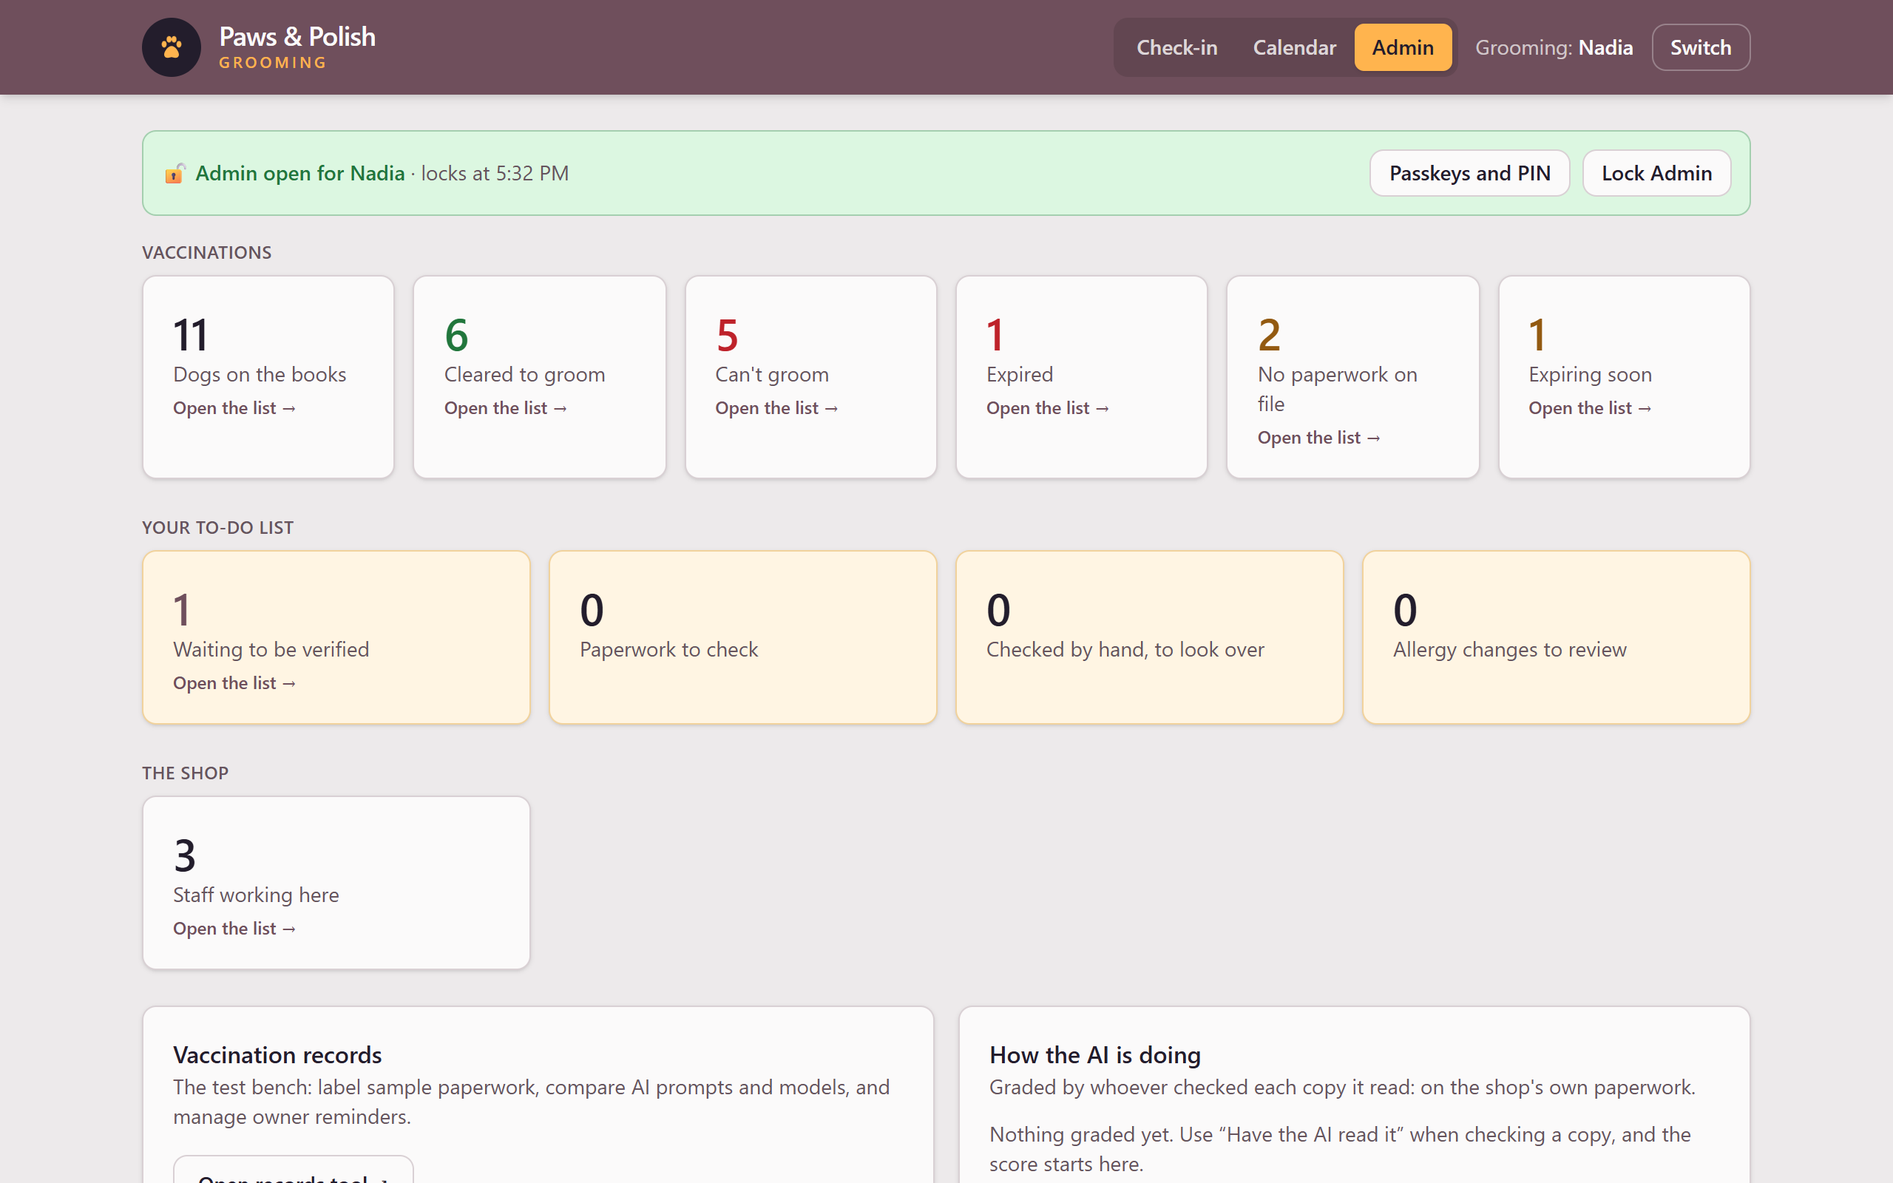
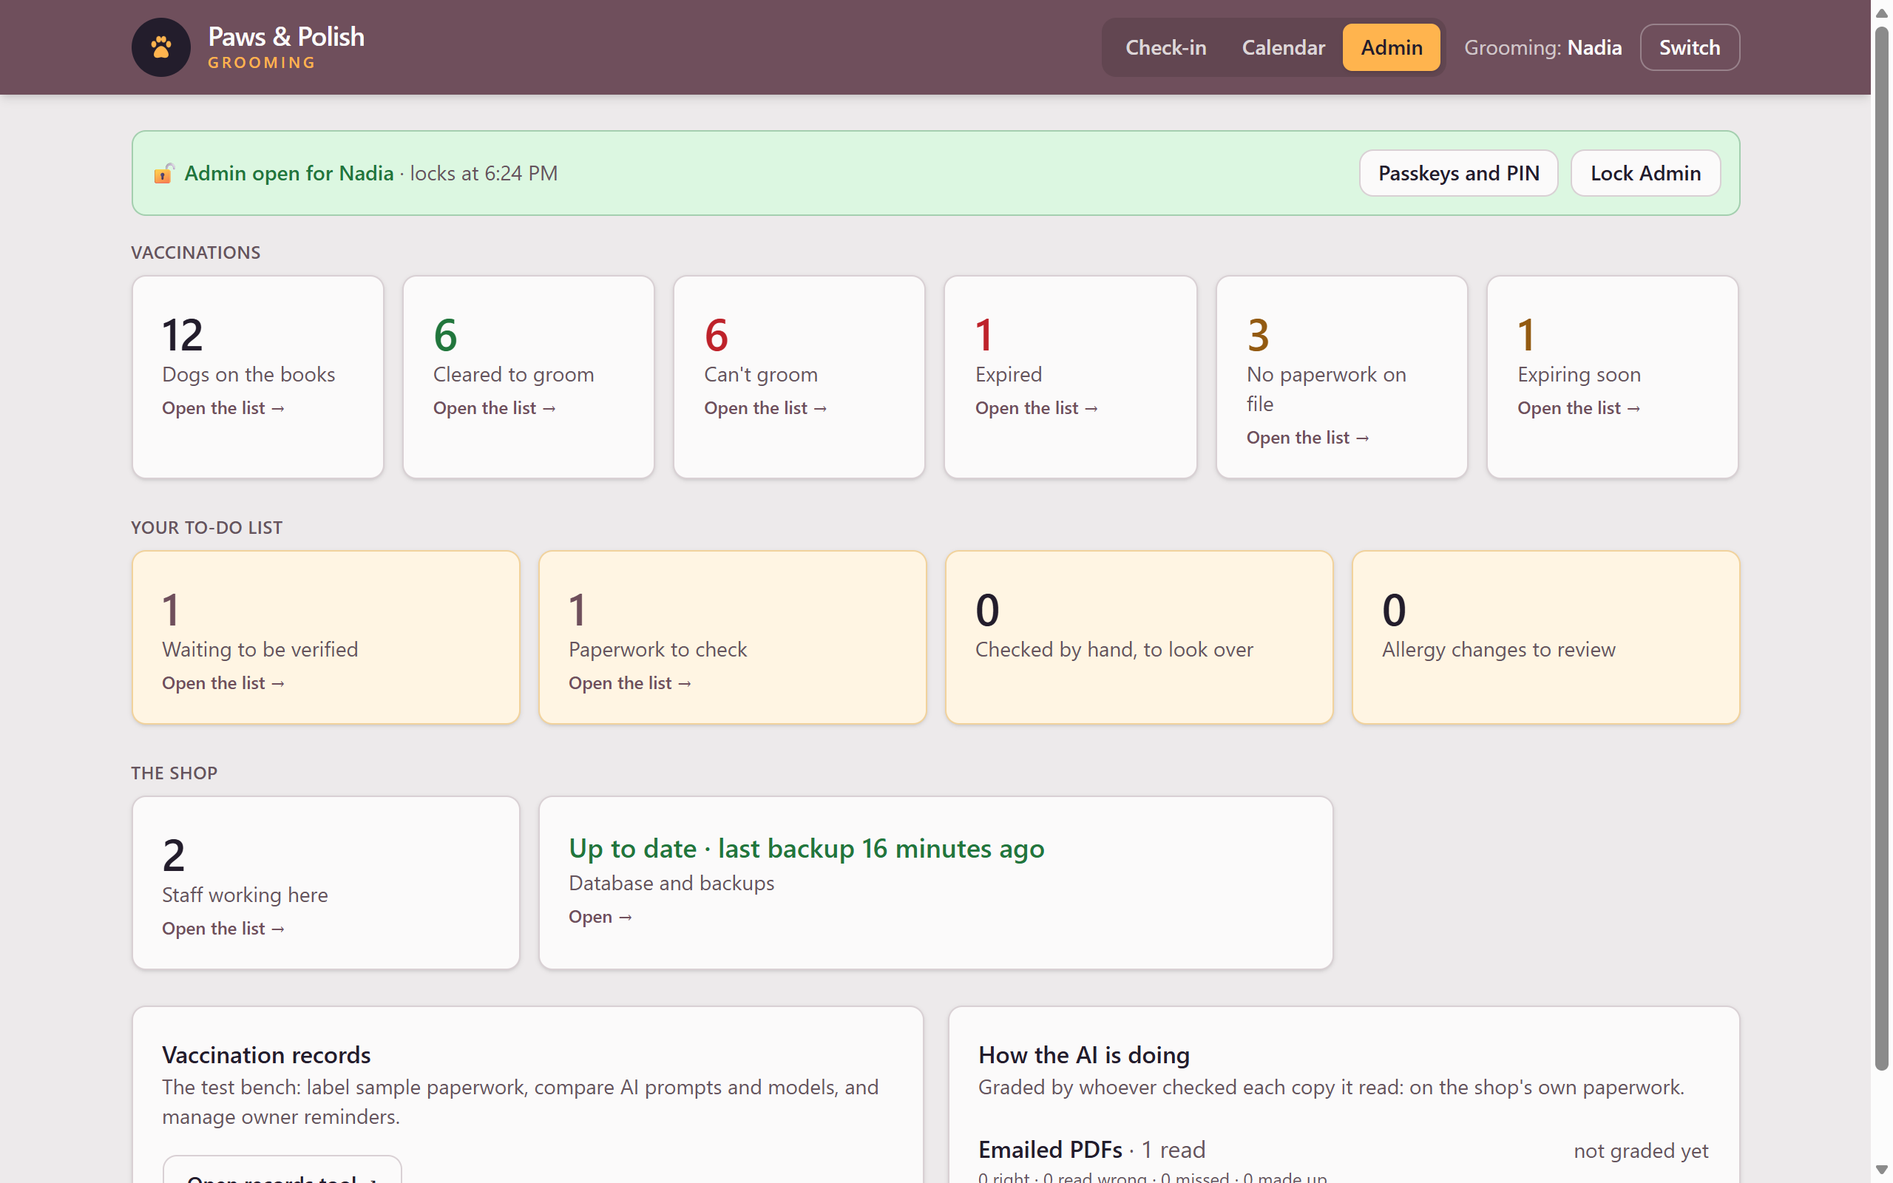
Admin: Database and backups, to see updates and backups at a glance
A new card under The shop says in words whether the shop's database is up
to date and how old the newest backup is: green when all is well, amber
when sections wait for a restart or there is no backup, red when the last
update failed. Behind it: the last start's update, every section the
database holds and how it got there (built, already there, added by an
update), any waiting for a restart, and every backup with when, why
(from Admin by whom, before an update, before a restore, by hand), size
and contents. Back up now takes one from Admin, named for the manager;
restoring stays in the records tool.

SOP MGR-11, with its screenshots; SYS-09 points to the screen.

diff --git a/web/components/check-in/system-status.tsx b/web/components/check-in/system-status.tsx
@@ -1,0 +1,179 @@
+"use client";
+
+import { useEffect, useState } from "react";
+import { Badge } from "@/components/ui/badge";
+import { Button } from "@/components/ui/button";
+import { Card, CardContent, CardHeader, CardTitle } from "@/components/ui/card";
+import { api, type SystemStatus } from "@/lib/api";
+import { cn } from "@/lib/utils";
+
+const HOW = { built: "When it was built", baseline: "Already there", update: "Added by an update" } as const;
+
+/** "Oct 16, 2026, 9:38 PM", in the shop's own time. */
+function when(iso: string | null): string {
+  if (!iso) return "—";
+  return new Date(iso).toLocaleString("en-US", { month: "short", day: "numeric", year: "numeric",
+                                                  hour: "numeric", minute: "2-digit" });
+}
+
+/** "2 hours ago", for how old the newest backup is. */
+function ago(iso: string | null): string {
+  if (!iso) return "";
+  const mins = Math.round((Date.now() - new Date(iso).getTime()) / 60000);
+  if (mins < 2) return "just now";
+  if (mins < 60) return `${mins} minutes ago`;
+  const hours = Math.round(mins / 60);
+  if (hours < 48) return `${hours} ${hours === 1 ? "hour" : "hours"} ago`;
+  return `${Math.round(hours / 24)} days ago`;
+}
+
+function megabytes(bytes: number): string {
+  return bytes < 1024 * 1024 ? `${Math.max(1, Math.round(bytes / 1024))} KB` : `${(bytes / 1024 / 1024).toFixed(1)} MB`;
+}
+
+/** What the card on the Admin overview says: the one thing to know first. */
+export function systemHeadline(s: SystemStatus | null): { text: string; tone: "ok" | "warn" | "stop" } {
+  if (!s) return { text: "Checking…", tone: "warn" };
+  if (!s.update.ok) return { text: "The last update failed", tone: "stop" };
+  if (s.waiting.length) return { text: "New sections wait for a restart", tone: "warn" };
+  if (!s.backups.length) return { text: "Up to date · no backups yet", tone: "warn" };
+  return { text: `Up to date · last backup ${ago(s.backups[0].made_utc)}`, tone: "ok" };
+}
+
+/**
+ * Database and backups, from Admin: how the last start's update went, every
+ * section of the shop's rules the database holds, and every backup. A manager
+ * can take a backup here; restoring is done from the records tool (SOP
+ * SYS-08), since it replaces the shop's data.
+ */
+export function SystemScreen({ onChanged }: { onChanged?: () => void }) {
+  const [status, setStatus] = useState<SystemStatus | null>(null);
+  const [error, setError] = useState<string | null>(null);
+  const [busy, setBusy] = useState(false);
+  const [done, setDone] = useState<string | null>(null);
+  const [allSections, setAllSections] = useState(false);
+
+  const load = () => api.systemStatus().then(setStatus).catch((e) => setError(String(e.message ?? e)));
+  useEffect(() => { load(); }, []);
+
+  async function backUp() {
+    setBusy(true); setError(null); setDone(null);
+    try {
+      const b = await api.backUpNow();
+      setDone(`Backup saved: ${b.name} (${megabytes(b.bytes)}).`);
+      load(); onChanged?.();
+    } catch (e) {
+      setError(String((e as Error).message ?? e));
+    } finally {
+      setBusy(false);
+    }
+  }
+
+  if (!status) {
+    return error
+      ? <p role="alert" className="rounded-[var(--radius)] border border-stop/30 bg-stop-soft p-3 text-sm text-stop">{error}</p>
+      : <p className="text-muted-foreground">Loading…</p>;
+  }
+
+  const { update } = status;
+  const added = status.sections.filter((s) => s.how === "update");
+  const shown = allSections ? status.sections : status.sections.slice(0, 8);
+
+  return (
+    <div className="flex flex-col gap-4">
+      {/* The update on the last start. */}
+      <Card className={cn(!update.ok && "border-stop/30 bg-stop-soft")}>
+        <CardHeader>
+          <CardTitle>The shop&apos;s database</CardTitle>
+          <p className="text-sm text-muted-foreground">
+            Each time the app starts, it adds any new sections of the shop&apos;s rules, after a backup.
+          </p>
+        </CardHeader>
+        <CardContent className="flex flex-col gap-3 text-sm">
+          {update.ok ? (
+            <p>
+              <Badge tone="ok">Up to date</Badge>{" "}
+              Holds all {status.section_files} sections. Last checked {when(update.checked_at)}
+              {update.applied.length > 0 && <>, when it added {update.applied.join(", ")}</>}.
+            </p>
+          ) : (
+            <div className="text-stop">
+              <p><Badge tone="stop">Update failed</Badge> {when(update.checked_at)}</p>
+              <p className="mt-1">
+                <span className="font-mono">{update.failed_file}</span> could not be added, so the update stopped
+                there. The database is as it was before that section.
+                {update.backup && <> A backup was taken first: <span className="font-mono">{update.backup}</span>.</>}
+              </p>
+              {update.message && <pre className="mt-2 whitespace-pre-wrap text-xs">{update.message}</pre>}
+            </div>
+          )}
+          {status.waiting.length > 0 && (
+            <p className="rounded-[var(--radius)] border border-warn/30 bg-warn-soft p-3 text-warn">
+              Waiting for the app to restart: {status.waiting.join(", ")}. They are added, after a backup, the
+              next time the app starts.
+            </p>
+          )}
+
+          <div>
+            <p className="mb-1 font-medium">
+              Sections in the database
+              {added.length > 0 && <span className="font-normal text-muted-foreground"> · {added.length} added by updates</span>}
+            </p>
+            <ul className="divide-y divide-border rounded-[var(--radius)] border border-border bg-card">
+              {shown.map((s) => (
+                <li key={s.file} className="flex flex-wrap items-center justify-between gap-2 px-3 py-2">
+                  <span className="font-mono text-xs">{s.file}</span>
+                  <span className="text-xs text-muted-foreground">
+                    {HOW[s.how]}{s.how === "update" && <> · {when(s.applied_at)}</>}
+                  </span>
+                </li>
+              ))}
+            </ul>
+            {status.sections.length > 8 && (
+              <Button variant="outline" size="sm" className="mt-2" onClick={() => setAllSections((a) => !a)}>
+                {allSections ? "Show fewer" : `Show all ${status.sections.length}`}
+              </Button>
+            )}
+          </div>
+        </CardContent>
+      </Card>
+
+      {/* The backups. */}
+      <Card>
+        <CardHeader>
+          <CardTitle>Backups · {status.backups.length}</CardTitle>
+          <p className="text-sm text-muted-foreground">
+            Each holds the shop&apos;s database and the copies of paperwork and dog photos, in the backups folder on
+            this computer. Keep a copy somewhere else too. Restoring one is done from the records tool.
+          </p>
+        </CardHeader>
+        <CardContent className="flex flex-col gap-3">
+          <div className="flex flex-wrap items-center gap-3">
+            <Button disabled={busy} onClick={backUp}>{busy ? "Backing up… this takes a minute" : "Back up now"}</Button>
+            {done && <p className="text-sm text-ok">{done}</p>}
+            {error && <p role="alert" className="text-sm text-stop">{error}</p>}
+          </div>
+          {status.backups.length === 0 ? (
+            <p className="text-sm text-muted-foreground">No backups yet.</p>
+          ) : (
+            <ul className="divide-y divide-border rounded-[var(--radius)] border border-border bg-card text-sm">
+              {status.backups.map((b) => (
+                <li key={b.name} className="flex flex-wrap items-start justify-between gap-2 px-3 py-2.5">
+                  <span className="min-w-0">
+                    <span className="block font-medium">{when(b.made_utc)}</span>
+                    <span className="block text-muted-foreground">
+                      {b.why} · {megabytes(b.bytes)}
+                      {b.readable ? ` · ${b.databases.length} databases, ${b.private_files ?? 0} files` : ""}
+                    </span>
+                    <span className="block font-mono text-xs text-muted-foreground">{b.name}</span>
+                  </span>
+                  {!b.readable && <Badge tone="stop">Can&apos;t be read</Badge>}
+                </li>
+              ))}
+            </ul>
+          )}
+        </CardContent>
+      </Card>
+    </div>
+  );
+}

diff --git a/web/components/check-in/admin-view.tsx b/web/components/check-in/admin-view.tsx
@@ -7,9 +7,10 @@ import { Button } from "@/components/ui/button";
 import { CopyPages, PaperworkIntake } from "@/components/check-in/paperwork-intake";
 import { RecordFixForm } from "@/components/check-in/record-fix-form";
 import { StaffList } from "@/components/check-in/staff-list";
+import { SystemScreen, systemHeadline } from "@/components/check-in/system-status";
 import {
   api, paperworkUrl, type AiAccuracy, type DogSummary, type ComplianceLine, type ComplianceSummary, type HandChecked, type Review,
-  type DatabaseUpdate, type StaffMember, type WaitingCopy, type WaitingShot,
+  type DatabaseUpdate, type StaffMember, type SystemStatus, type WaitingCopy, type WaitingShot,
 } from "@/lib/api";
 import { cn, formatDate } from "@/lib/utils";
 import { GoodStanding } from "@/components/ui/good-standing";
@@ -120,6 +121,9 @@ function AdminScreens({ groomerId, onOpenDog, list, onList }: {
   // The one record whose form is open: verifying a typed-in shot, or fixing a hand-checked one.
   const [fixing, setFixing] = useState<string | null>(null);
   const [staff, setStaff] = useState<StaffMember[]>([]);
+  const [system, setSystem] = useState<SystemStatus | null>(null);
+  // Not through fail(): a problem here must not hide the rest of Admin.
+  const loadSystem = () => api.systemStatus().then(setSystem).catch(() => setSystem(null));
 
   const fail = (e: { message?: string }) => setProblem(String(e.message ?? e));
   const loadReviews = () => api.reviews().then(setReviews).catch(fail);
@@ -131,6 +135,7 @@ function AdminScreens({ groomerId, onOpenDog, list, onList }: {
     api.compliance().then(setSummary).catch(fail);
     api.findDogs("").then(setBook).catch(fail);
     api.staff().then(setStaff).catch(fail);
+    loadSystem();
   };
   useEffect(() => {
     loadPaperwork();
@@ -352,6 +357,7 @@ function AdminScreens({ groomerId, onOpenDog, list, onList }: {
       </Card>
     ) },
     staff: { empty: "", node: <StaffList groomerId={groomerId} onChanged={() => api.staff().then(setStaff).catch(fail)} /> },
+    system: { empty: "", node: <SystemScreen onChanged={loadSystem} /> },
     ...Object.fromEntries([...grouped.filter((g) => g.id !== "waiting"), { ...OTHER, lines: other }].map((g) => [g.id, {
       empty: "Nothing on this list now.",
       node: g.lines.length > 0 && (
@@ -406,6 +412,7 @@ function AdminScreens({ groomerId, onOpenDog, list, onList }: {
         <h2 className="text-xs font-semibold uppercase tracking-wide text-muted-foreground">The shop</h2>
         <div className="grid grid-cols-2 gap-3 lg:grid-cols-4">
           {stat("Staff working here", staff.filter((s) => s.working_here).length, undefined, "staff")}
+          <SystemCard status={system} onOpen={() => onList("system")} />
         </div>
       </section>
       {other.length > 0 && (
@@ -493,6 +500,19 @@ const when = (at: string) =>
   new Date(at).toLocaleString("en-US", { month: "short", day: "numeric", hour: "numeric", minute: "2-digit" });
 
 const TONE: Record<Tone, string> = { ok: "text-ok", stop: "text-stop", warn: "text-warn", info: "text-primary" };
+
+/** The overview's card for the database and backups: in words, not a count. */
+function SystemCard({ status, onOpen }: { status: SystemStatus | null; onOpen: () => void }) {
+  const { text, tone } = systemHeadline(status);
+  return (
+    <button onClick={onOpen}
+            className="group col-span-2 flex flex-col items-start justify-start rounded-[var(--radius)] border border-border bg-card p-5 text-left shadow-sm transition-colors hover:border-primary hover:bg-muted">
+      <p className={cn("text-lg font-semibold", TONE[tone])}>{text}</p>
+      <p className="text-sm text-muted-foreground">Database and backups</p>
+      <p className="mt-1 text-xs font-medium text-primary group-hover:underline">Open →</p>
+    </button>
+  );
+}
 
 function Stat({ label, value, tone, todo, onOpen }: {
   label: string; value: number; tone?: Tone; todo?: boolean; onOpen?: () => void;

diff --git a/web/lib/api.ts b/web/lib/api.ts
@@ -173,6 +173,19 @@ export type DatabaseUpdate = {
   ok: boolean; checked_at: string | null; applied: string[];
   failed_file: string | null; message: string | null; backup: string | null;
 };
+/** One backup in backups/, as Admin lists it. */
+export type BackupInfo = {
+  name: string; made_utc: string | null; why: string; bytes: number;
+  databases: string[]; private_files: number | null; readable: boolean;
+};
+/** Database and backups, for Admin: the last update, the sections held, and the backups. */
+export type SystemStatus = {
+  update: DatabaseUpdate;
+  sections: { file: string; how: "built" | "baseline" | "update"; applied_at: string }[];
+  waiting: string[];
+  section_files: number;
+  backups: BackupInfo[];
+};
 export type ComplianceSummary = { dogs: number; cleared: number; blocked: number; lines: ComplianceLine[] };
 
 export type AllergyType = "contact" | "flea" | "environmental" | "food";
@@ -367,6 +380,8 @@ export const api = {
   findDogs: (q: string, by: SearchBy = "any") => get<DogSummary[]>(`/dogs?q=${encodeURIComponent(q)}&by=${by}`),
   compliance: () => get<ComplianceSummary>("/admin/compliance"),
   databaseUpdate: () => get<DatabaseUpdate>("/admin/database-update"),
+  systemStatus: () => get<SystemStatus>("/admin/system"),
+  backUpNow: () => post<BackupInfo>("/admin/system/backup", {}),
   card: (id: string) => get<CheckInCard>(`/dogs/${id}`),
   startGroom: (dogId: string, groomerId: string) =>
     post<{ id: string; visit_date: string; check_in: string; groomer: string }>(

diff --git a/api/app/main.py b/api/app/main.py
@@ -24,6 +24,11 @@ from pydantic import BaseModel
 import json
 import logging
 import os
+import re
+import subprocess
+import sys
+import zipfile
+from pathlib import Path
 
 from starlette.concurrency import run_in_threadpool
 
@@ -276,6 +281,71 @@ def database_update():
     found = db.row("""SELECT ok, checked_at, applied, failed_file, message, backup
                         FROM upkeep.update_status WHERE id = 1""")
     return found or {"ok": True, "checked_at": None, "applied": [], "failed_file": None, "message": None, "backup": None}
+
+
+# ------------------------------------------------- database and backups (Admin)
+
+REPO = Path(__file__).resolve().parents[2]
+BACKUPS = REPO / "backups"
+BACKUP_NAME = re.compile(r"^shop-backup-(\d{4}-\d{2}-\d{2})_(\d{2})-(\d{2})-(\d{2})(?:-(.+))?\.zip$")
+
+
+def _backup_row(path: Path) -> dict:
+    """One backup in backups/, as Admin lists it: when, why, how big, what is in it."""
+    m = BACKUP_NAME.match(path.name)
+    made = f"{m.group(1)}T{m.group(2)}:{m.group(3)}:{m.group(4)}+00:00" if m else None
+    label = (m.group(5) if m else None) or ""
+    why = ("before an update" if label == "before-update" else
+           "before a restore" if label == "before-restore" else
+           f"from Admin, by {label[3:].replace('-', ' ').title()}" if label.startswith("by-") else
+           "by hand")
+    row = {"name": path.name, "made_utc": made, "why": why, "bytes": path.stat().st_size,
+           "databases": [], "private_files": None, "readable": False}
+    try:
+        with zipfile.ZipFile(path) as z:
+            manifest = json.loads(z.read("manifest.json"))
+        row.update(databases=manifest.get("databases", []), private_files=manifest.get("private_files"),
+                   made_utc=manifest.get("made_utc", made), readable=True)
+    except (zipfile.BadZipFile, KeyError, ValueError, OSError):
+        pass
+    return row
+
+
+@app.get("/admin/system")
+def system_status():
+    """Database and backups, for Admin: the last start's update, every section
+    the shop's database holds, any in sql/ it doesn't yet (waiting for a
+    restart), and every backup, newest first."""
+    if str(REPO / "api") not in sys.path:
+        sys.path.append(str(REPO / "api"))
+    import update_database   # api/update_database.py: the same list of section files
+    files = update_database.section_files(REPO / "sql")
+    listed = db.row("SELECT to_regclass('upkeep.applied_section') IS NOT NULL AS ok")["ok"] is True
+    sections = db.rows("""SELECT file, how, applied_at FROM upkeep.applied_section
+                           ORDER BY applied_at DESC, file DESC""") if listed else []
+    held = {s["file"] for s in sections}
+    backups = sorted(BACKUPS.glob("shop-backup-*.zip"), key=lambda p: p.name, reverse=True) if BACKUPS.exists() else []
+    return {
+        "update": database_update(),
+        "sections": sections,
+        "waiting": [f for f in files if f not in held] if listed else [],
+        "section_files": len(files),
+        "backups": [_backup_row(p) for p in backups],
+    }
+
+
+@app.post("/admin/system/backup")
+def back_up_now(request: Request):
+    """A backup now, from Admin, named for the manager who took it (shop_backup.py)."""
+    who = db.row("SELECT display_name FROM groomer WHERE id = %s", (request.state.admin_id,))
+    label = "by-" + re.sub(r"[^a-z0-9]+", "-", (who["display_name"] if who else "manager").lower()).strip("-")
+    out = subprocess.run([sys.executable, str(REPO / "extraction" / "review" / "shop_backup.py"), "save",
+                          "--label", label], capture_output=True, text=True, cwd=REPO, timeout=600)
+    said = (out.stdout + out.stderr).strip()
+    found = re.search(r"Backup saved: backups/(\S+)", said)
+    if out.returncode != 0 or not found:
+        raise HTTPException(500, "The backup did not work: " + (said.splitlines()[-1] if said else "no output"))
+    return _backup_row(BACKUPS / found.group(1))
 
 
 @app.get("/admin/compliance")

diff --git a/api/tests/test_update_database.py b/api/tests/test_update_database.py
@@ -118,3 +118,19 @@ def test_admin_shows_a_failed_update(env):
         if old is not None:
             os.environ["DATABASE_URL"] = old
     assert got["ok"] is False and got["failed_file"] == "99_x.sql" and got["backup"] == "backups/b.zip"
+
+
+def test_admin_lists_sections_and_what_waits_for_a_restart(env):
+    old = os.environ.get("DATABASE_URL")
+    os.environ["DATABASE_URL"] = f"postgresql://{env['PGUSER']}:{env['PGPASSWORD']}@{env['PGHOST']}:{env['PGPORT']}/{DB}"
+    try:
+        from app.main import system_status
+        sql(env, "DELETE FROM upkeep.applied_section WHERE file = '34_staff.sql'")
+        got = system_status()
+    finally:
+        if old is not None:
+            os.environ["DATABASE_URL"] = old
+    files = {s["file"] for s in got["sections"]}
+    assert "grooming_platform_schema.sql" in files and "34_staff.sql" not in files
+    assert got["waiting"] == ["34_staff.sql"]
+    assert isinstance(got["backups"], list)

diff --git a/sop/_scripts/screenshots.py b/sop/_scripts/screenshots.py
@@ -109,6 +109,8 @@ SHOTS = [
     # The first other manager's Reset Admin access: it needs a second manager on the staff list.
     Shot("manager/staff-reset.png", site="local", unlocked=True,
          steps=[("tap", "Staff working here"), ("tap", "Reset Admin access")], ready="Yes, reset Admin access"),
+    Shot("manager/system.png", site="local", unlocked=True, steps=[("tap", "Database and backups")],
+         ready="Sections in the database", whole_page=True),
     # Last: its box stays open in the green bar until Done.
     Shot("manager/passkeys-and-pin.png", site="local", unlocked=True, steps=[("tap", "Passkeys and PIN")],
          ready="Your passkeys"),
